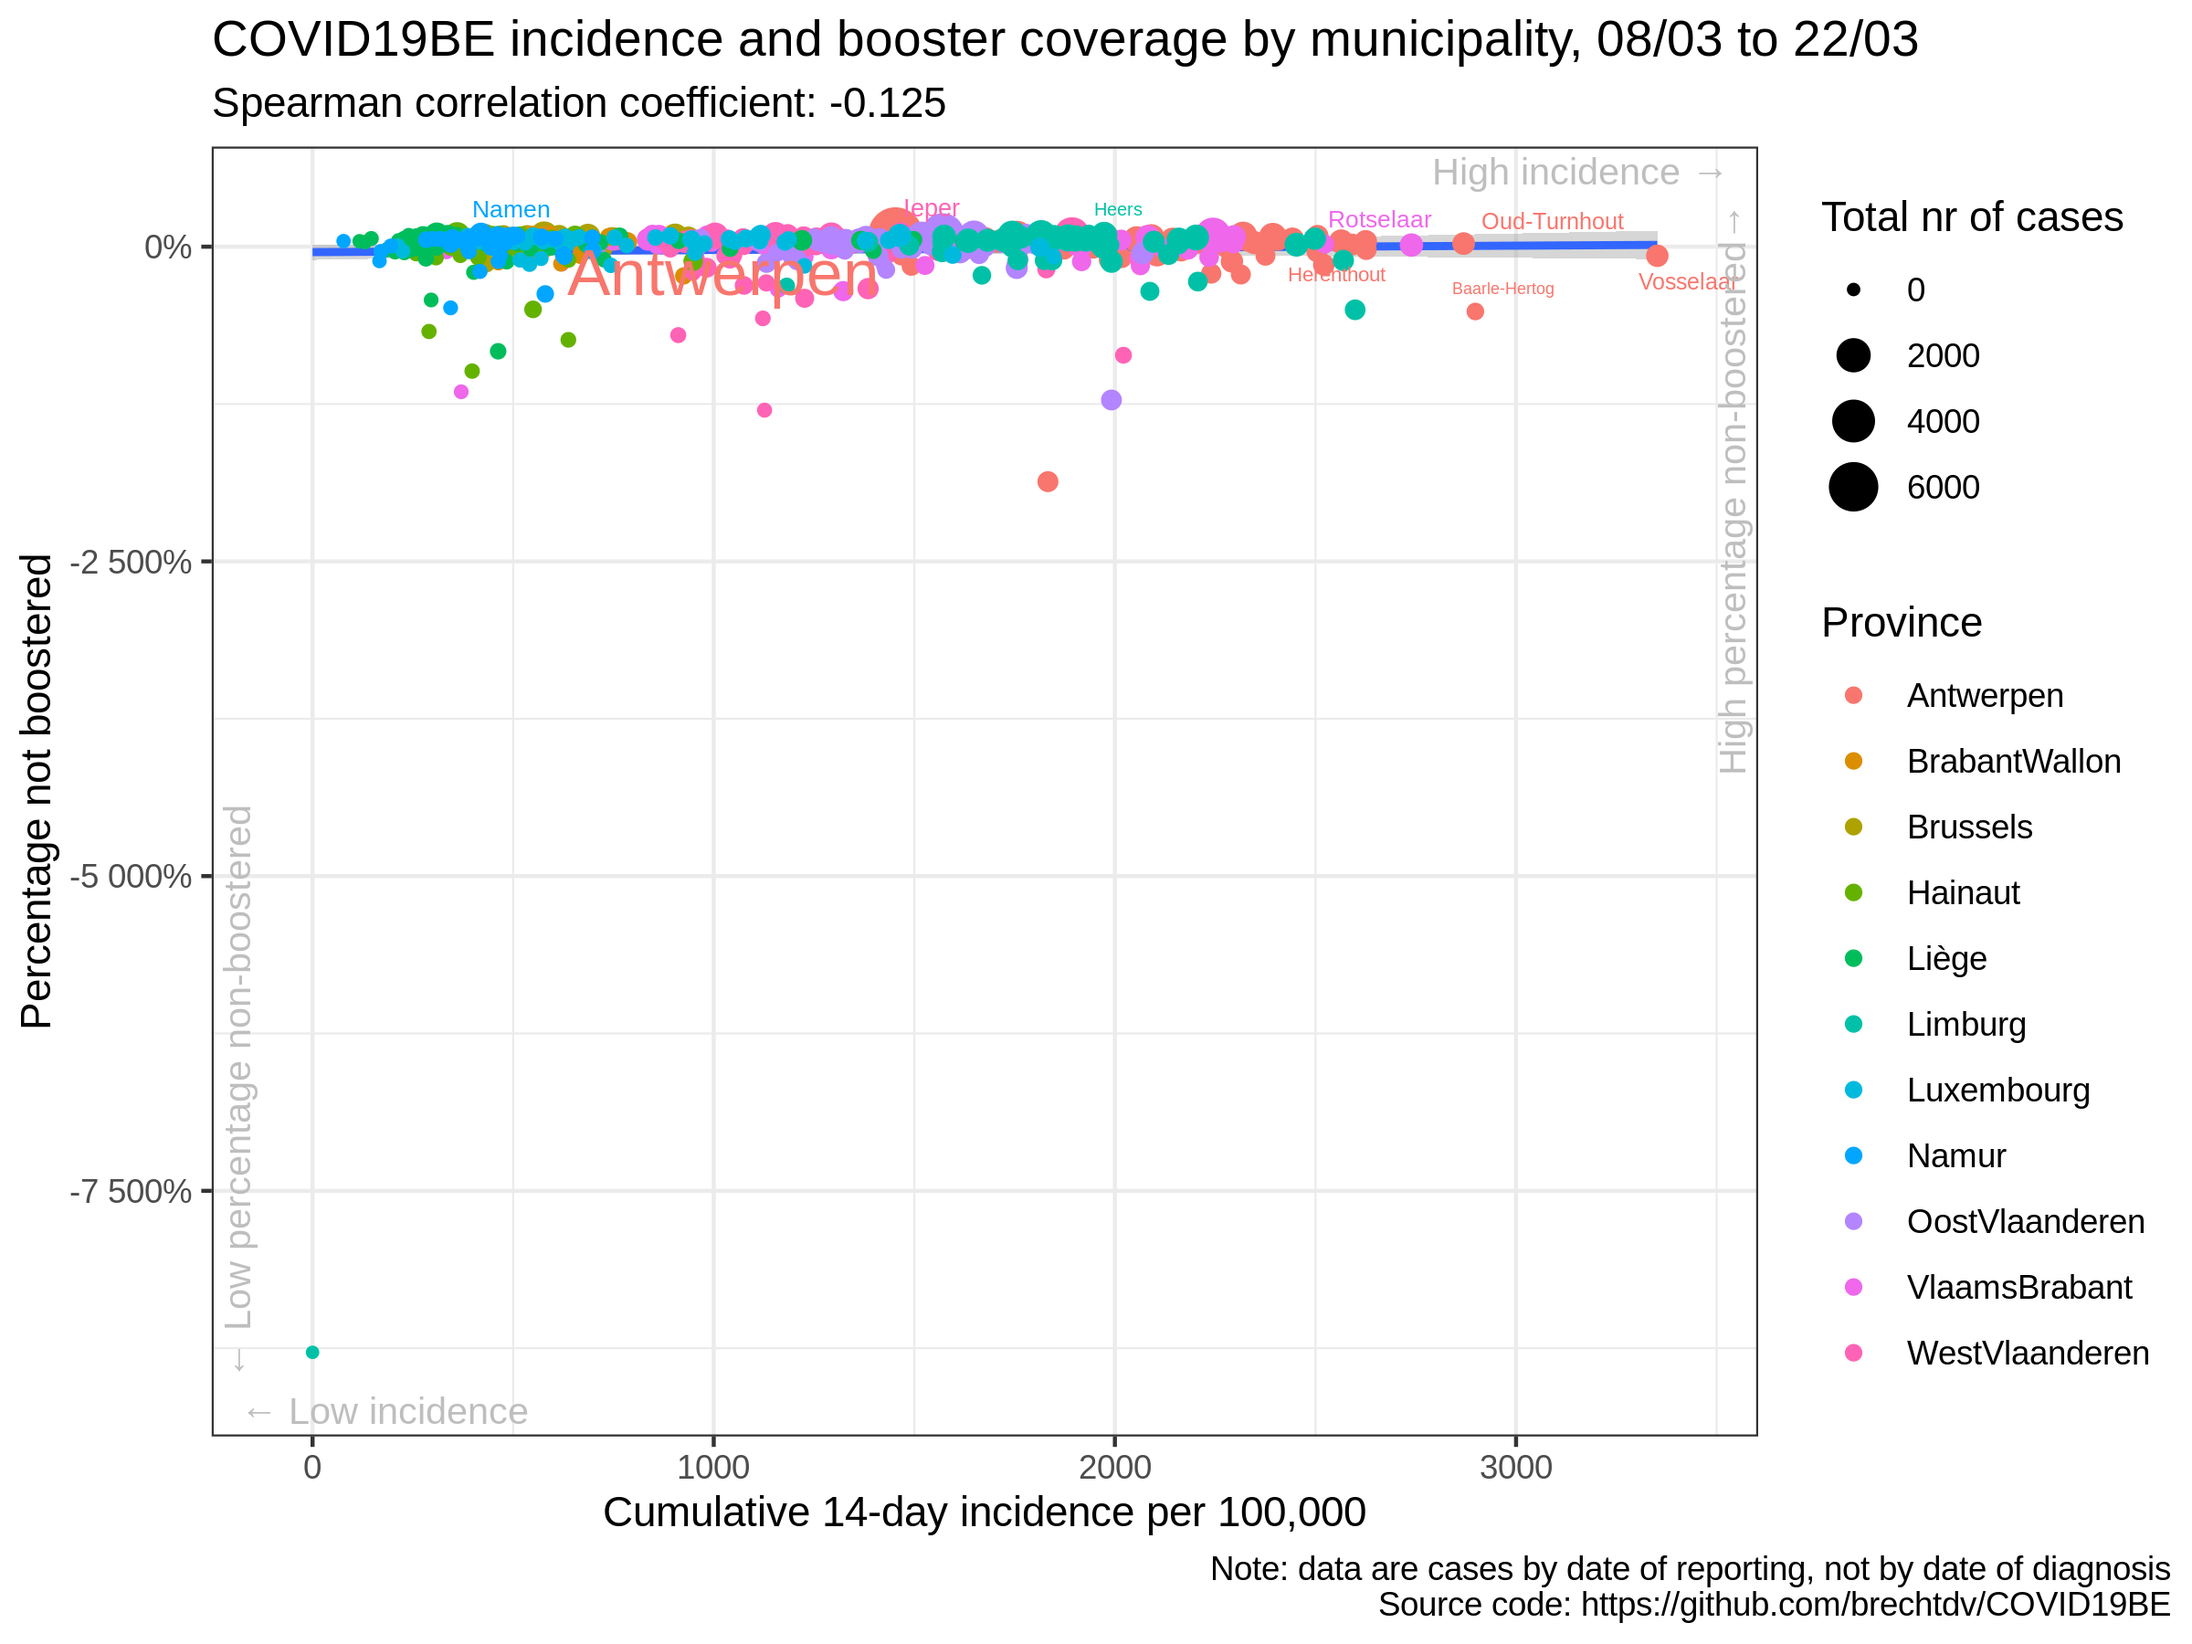
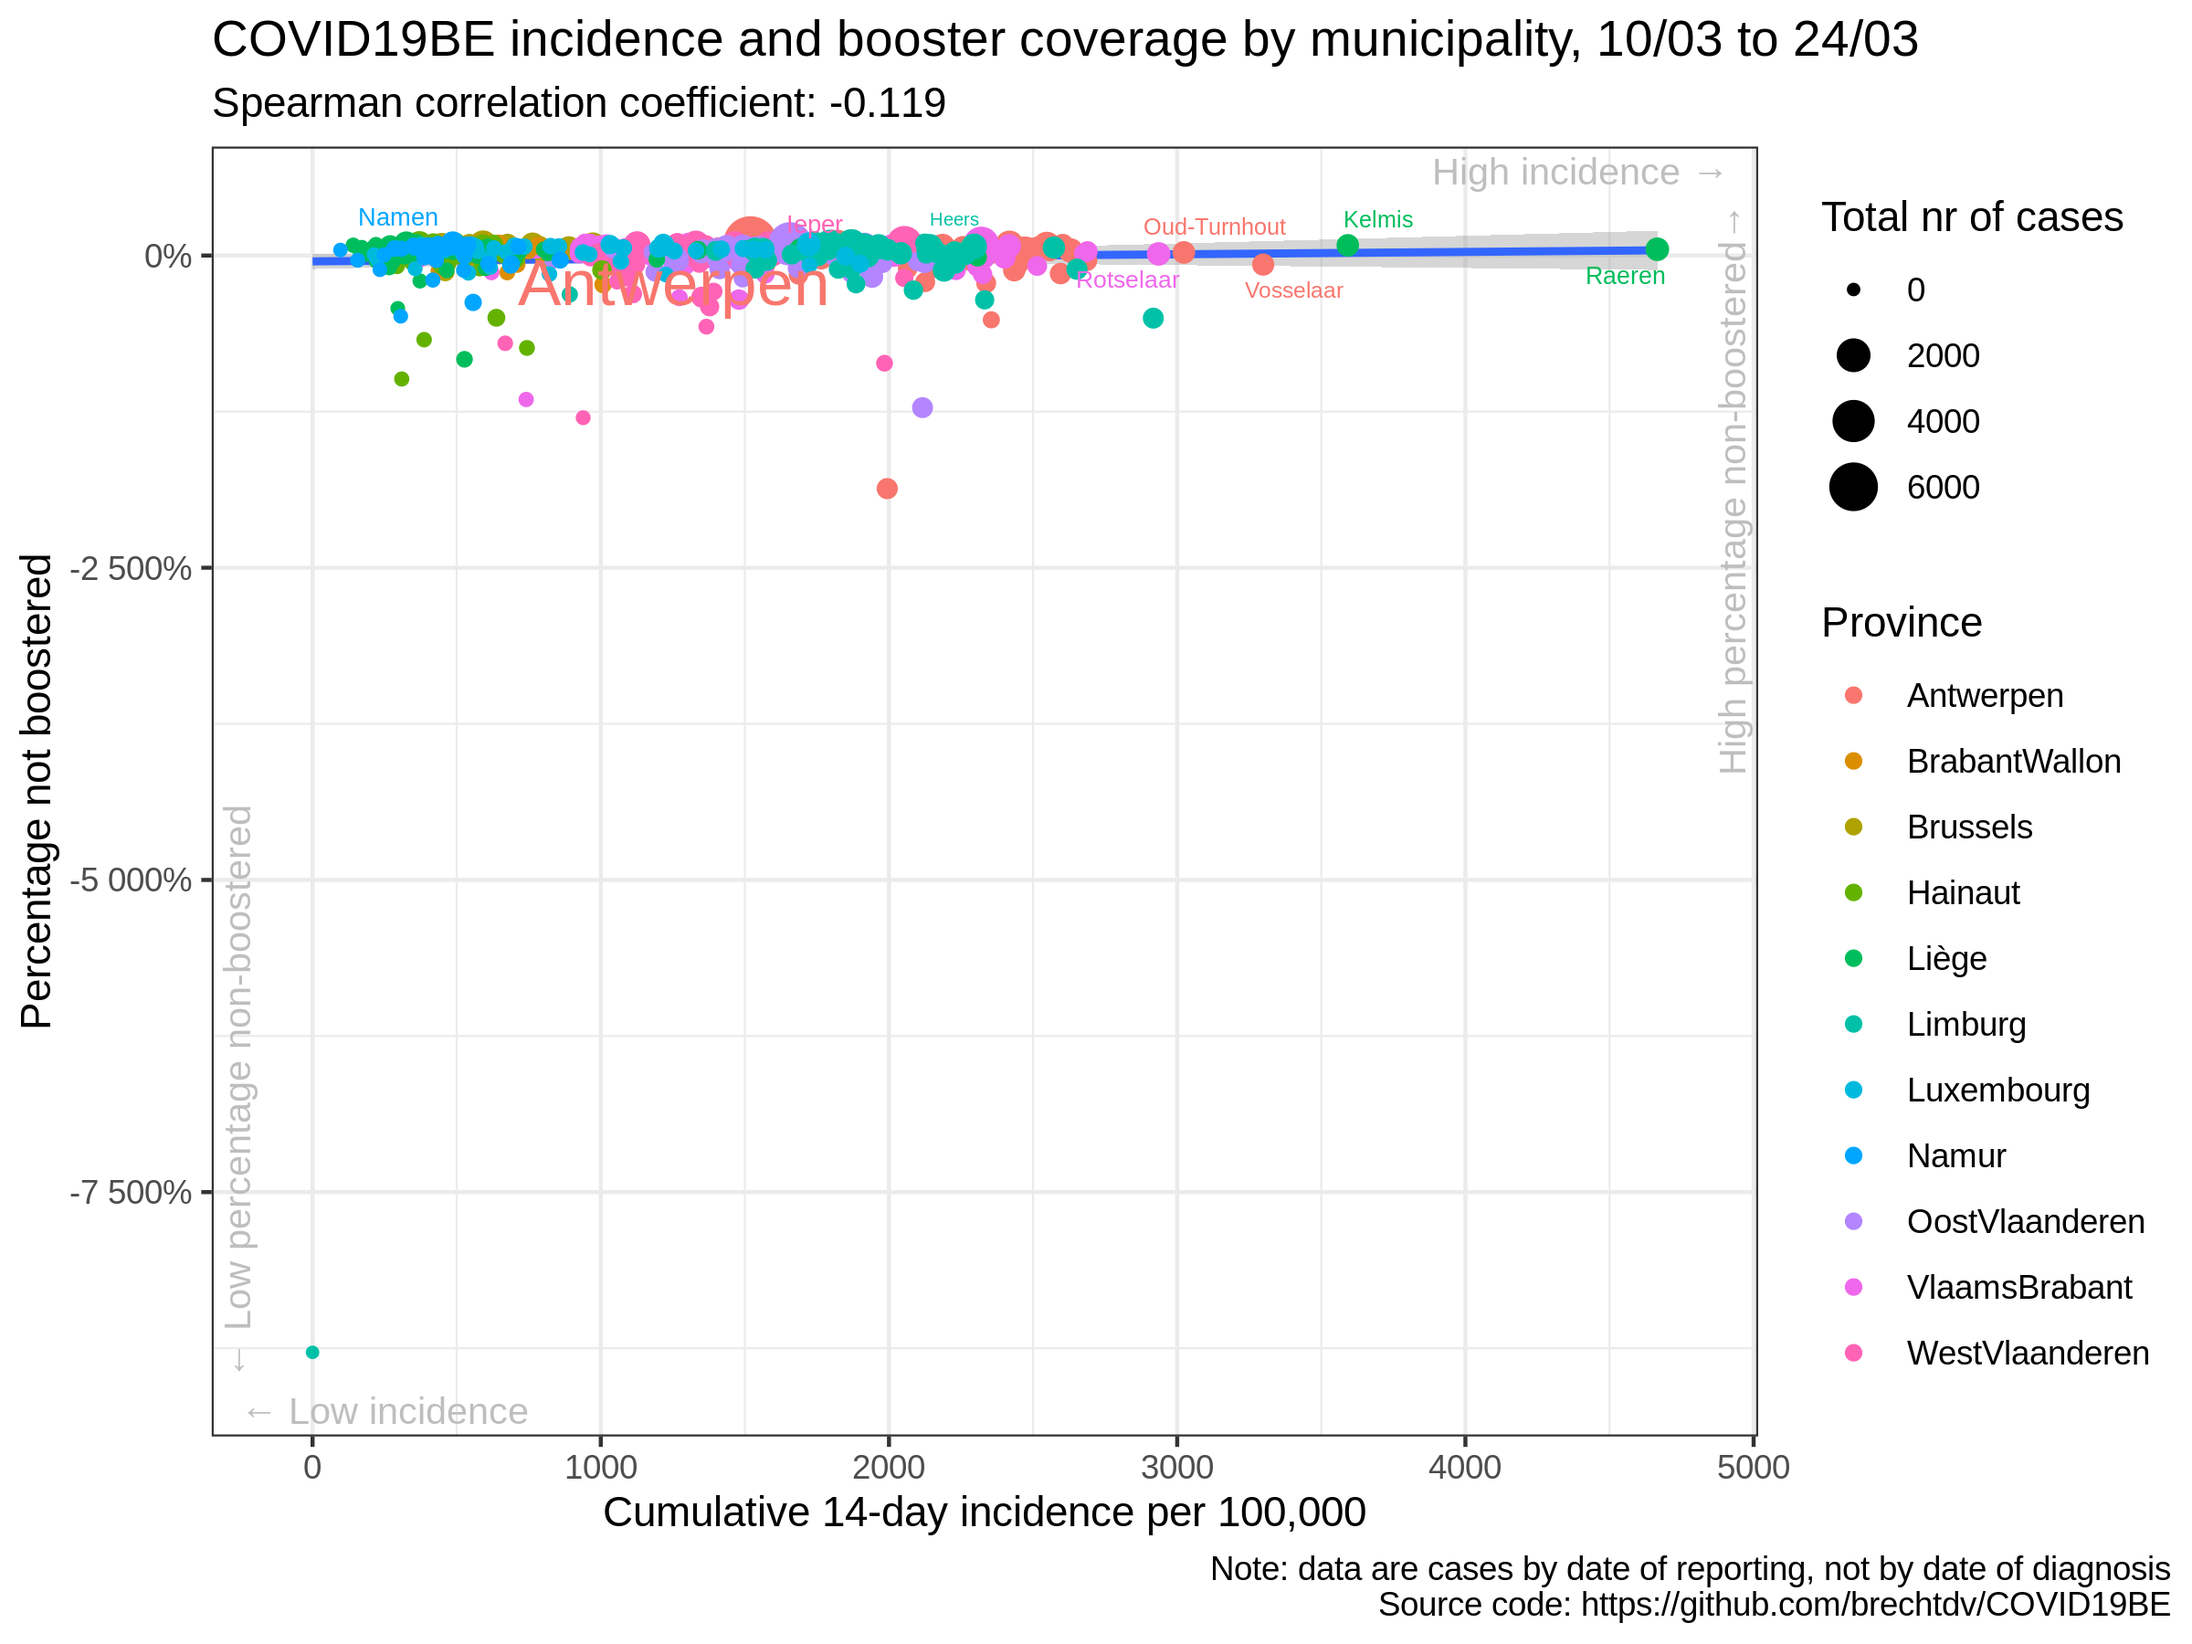
update situation

diff --git a/vaccination/README.md b/vaccination/README.md
@@ -17,35 +17,35 @@
 
 |                | estimate.rho | p.value |
 | :------------- | -----------: | ------: |
-| Antwerpen      |      \-0.089 |   0.466 |
-| BrabantWallon  |      \-0.016 |   0.936 |
-| Brussels       |        0.077 |   0.754 |
-| Hainaut        |      \-0.023 |   0.853 |
-| Liège          |      \-0.041 |   0.710 |
-| Limburg        |      \-0.030 |   0.849 |
-| Luxembourg     |        0.027 |   0.859 |
-| Namur          |        0.127 |   0.451 |
-| OostVlaanderen |      \-0.002 |   0.986 |
-| VlaamsBrabant  |      \-0.020 |   0.876 |
-| WestVlaanderen |        0.188 |   0.137 |
-| Belgium        |      \-0.067 |   0.105 |
+| Antwerpen      |      \-0.063 |   0.604 |
+| BrabantWallon  |      \-0.046 |   0.821 |
+| Brussels       |        0.070 |   0.776 |
+| Hainaut        |      \-0.022 |   0.855 |
+| Liège          |      \-0.057 |   0.605 |
+| Limburg        |      \-0.065 |   0.681 |
+| Luxembourg     |        0.047 |   0.763 |
+| Namur          |        0.039 |   0.818 |
+| OostVlaanderen |        0.002 |   0.986 |
+| VlaamsBrabant  |      \-0.034 |   0.786 |
+| WestVlaanderen |        0.258 |   0.040 |
+| Belgium        |      \-0.062 |   0.135 |
 
 ### Correlation cumulative incidence vs booster rate
 
 |                | estimate.rho | p.value |
 | :------------- | -----------: | ------: |
-| Antwerpen      |      \-0.093 |   0.449 |
-| BrabantWallon  |      \-0.013 |   0.950 |
-| Brussels       |        0.049 |   0.843 |
-| Hainaut        |      \-0.018 |   0.883 |
-| Liège          |      \-0.032 |   0.771 |
-| Limburg        |      \-0.032 |   0.839 |
-| Luxembourg     |        0.024 |   0.878 |
-| Namur          |        0.128 |   0.450 |
-| OostVlaanderen |        0.005 |   0.970 |
-| VlaamsBrabant  |      \-0.043 |   0.735 |
-| WestVlaanderen |        0.190 |   0.133 |
-| Belgium        |      \-0.125 |   0.003 |
+| Antwerpen      |      \-0.065 |   0.593 |
+| BrabantWallon  |      \-0.049 |   0.806 |
+| Brussels       |        0.054 |   0.826 |
+| Hainaut        |      \-0.015 |   0.900 |
+| Liège          |      \-0.051 |   0.642 |
+| Limburg        |      \-0.067 |   0.672 |
+| Luxembourg     |        0.043 |   0.783 |
+| Namur          |        0.037 |   0.829 |
+| OostVlaanderen |        0.008 |   0.954 |
+| VlaamsBrabant  |      \-0.057 |   0.654 |
+| WestVlaanderen |        0.259 |   0.039 |
+| Belgium        |      \-0.119 |   0.004 |
 
 ### Data source
 
